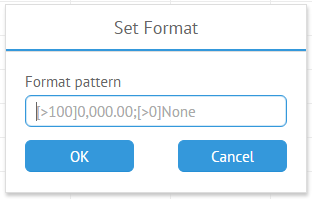
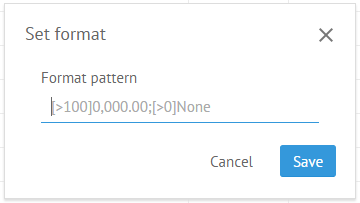
[update] images in spreadsheet docs updated, typos fixed

diff --git a/data/spreadsheet/customization.md b/data/spreadsheet/customization.md
@@ -94,10 +94,11 @@ spreadsheet.$$("bar");
 Toolbar buttons
 ---------------
 
-In this section we will consider the blocks of buttons, their names that you can use to refer to them and their purpose in detail.
+In this section we will consider the blocks of buttons, the names that you can use to refer to them and the purpose of each block in detail.
 
 <h3 id="file">File block</h3>
 
+<img src="spreadsheet/file_block.png">
 
 It includes the "sheet" select that allows working with sheet and contains three options:
 
@@ -112,6 +113,7 @@ and two buttons:
 
 <h3 id="undo">Undo/Redo block</h3>
 
+<img src="spreadsheet/undo_redo_block.png">
 
 It includes two buttons:
 
@@ -120,6 +122,7 @@ It includes two buttons:
 
 <h3 id="font">Font block</h3> 
 
+<img src="spreadsheet/font_block.png">
 
 This block contains a large group of buttons intended for handling font and cell borders' settings:
 
@@ -135,6 +138,7 @@ This block contains a large group of buttons intended for handling font and cell
 
 <h3 id="align">Align block</h3>
 
+<img src="spreadsheet/align_block.png">
 
 Besides managing Horizontal and Vertical cell alignment, this block also includes means of text wrapping and merging cells' content:
 
@@ -145,6 +149,7 @@ Besides managing Horizontal and Vertical cell alignment, this block also include
 
 <h3 id="number">Number block</h3> 
 
+<img src="spreadsheet/number_block.png">
 
 This block contains the *format* select, which sets the format of cell content. The available formats are:
 
@@ -156,6 +161,8 @@ This block contains the *format* select, which sets the format of cell content. 
 One more element of the block is the "custom-format" button which allows setting a custom format for a number in a cell.
 
 <h3 id="edit">Edit block</h3>
+
+<img src="spreadsheet/edit_block.png">
 
 The block includes a set of buttons for editing the cell's content:
 
@@ -170,10 +177,14 @@ The block includes a set of buttons for editing the cell's content:
 
 <h3 id="insert">Insert block</h3>
 
+<img src="spreadsheet/insert_block.png">
+
 - "add-image" button adds an image into a cell
 - "add-sparkline" button inserts a sparkline in a cell
 
 <h3 id="view">View block</h3>
+
+<img src="spreadsheet/view_block.png">
 
 - "row" button allows manipulating rows:insert/delete/hide/show them
 - "column" button lets manipulating columns:insert/delete/hide/show them

diff --git a/data/spreadsheet/cell_content.md b/data/spreadsheet/cell_content.md
@@ -66,7 +66,7 @@ For example, to display 4 as 4.0, use the format 0.0
 
 ###Applying Custom Format
 
-For setting a custom number format for a cell value, use of the api/ui.spreadsheet_setformat.md method. It takes three parameters:
+For setting a custom number format for a cell value, make use of the api/ui.spreadsheet_setformat.md method. It takes three parameters:
 
 - rowId - (number) the row id
 - columnId - (number) the column id

diff --git a/data/spreadsheet/export.md b/data/spreadsheet/export.md
@@ -13,7 +13,7 @@ webix.ui({
 });
 ~~~
 
-Then call the corresponding method: toPDF, toPNG or toExcel to export data from SpreadSheet into the file of the necessary format:
+Then call the corresponding method: api/_topdf.md, api/_topng.md or api/_toexcel.md to export data from SpreadSheet into the file of the necessary format:
 
 for Excel:
 
